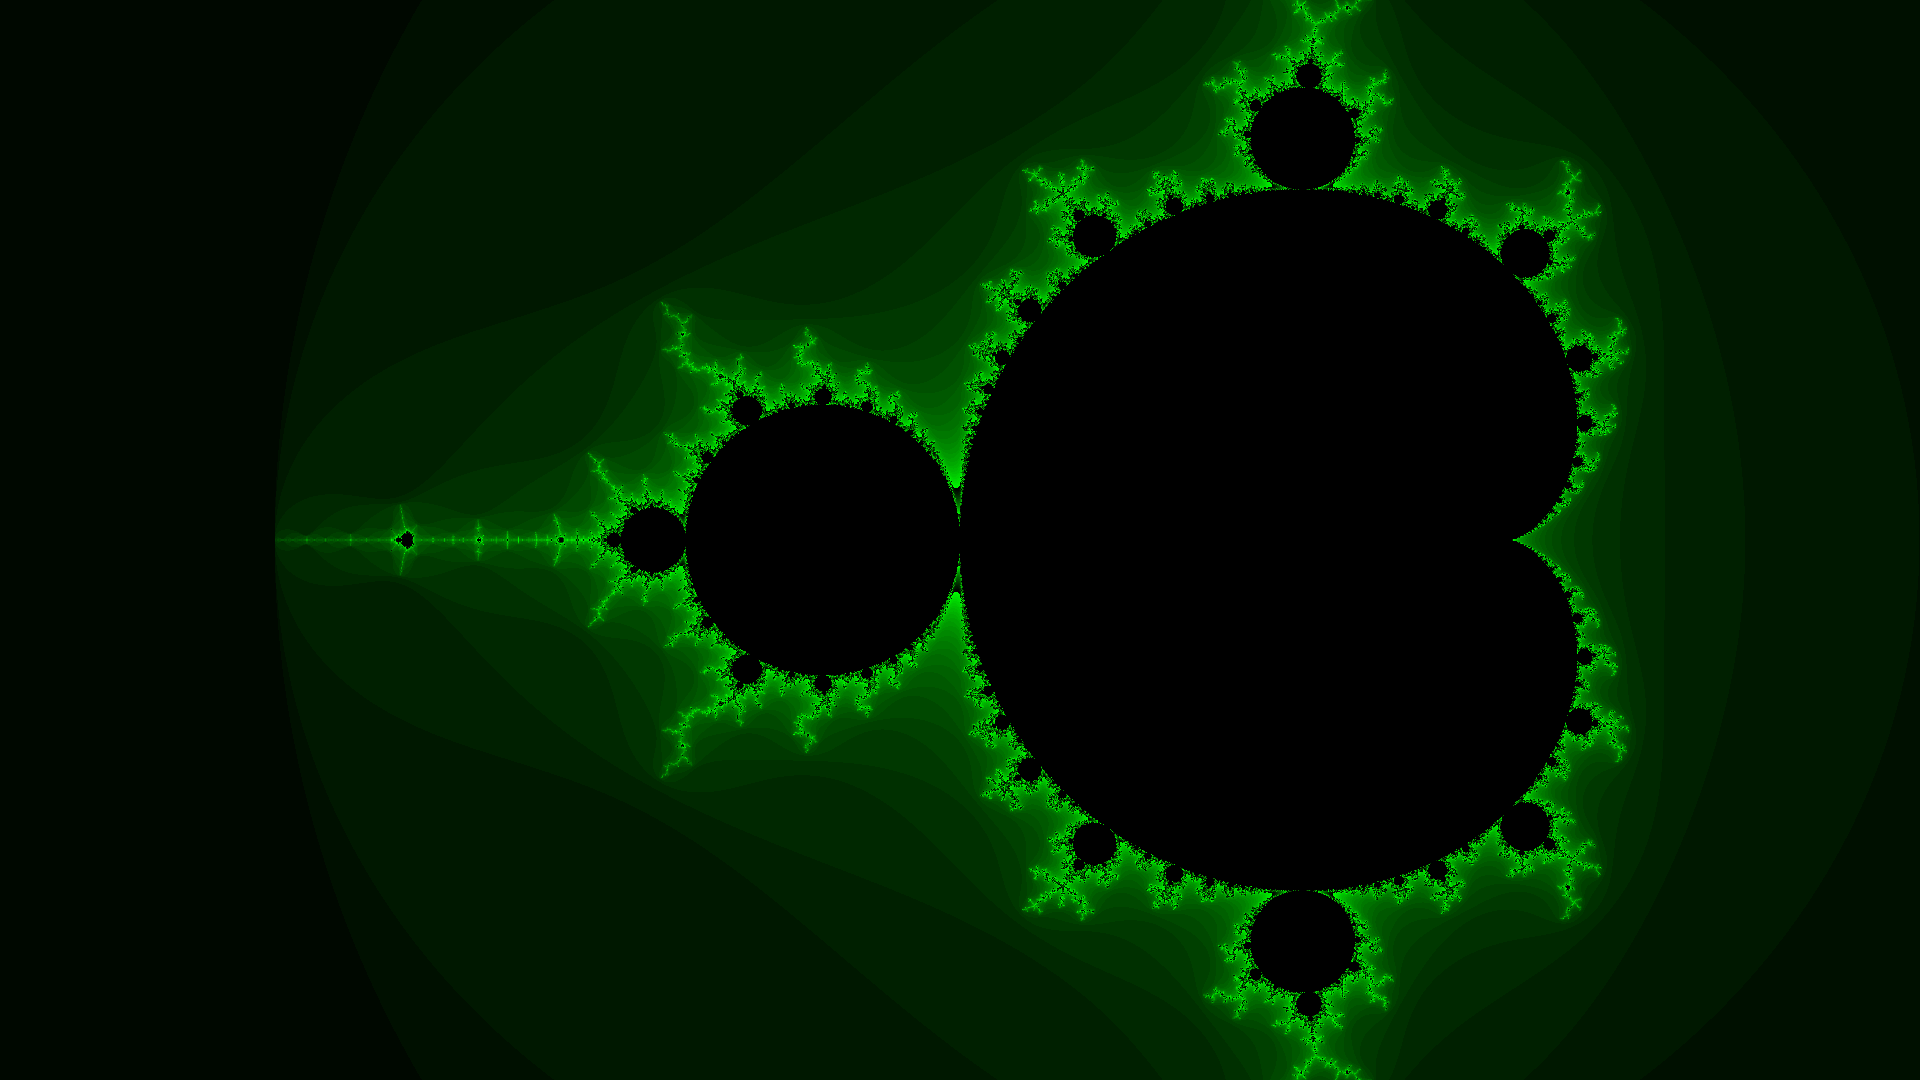
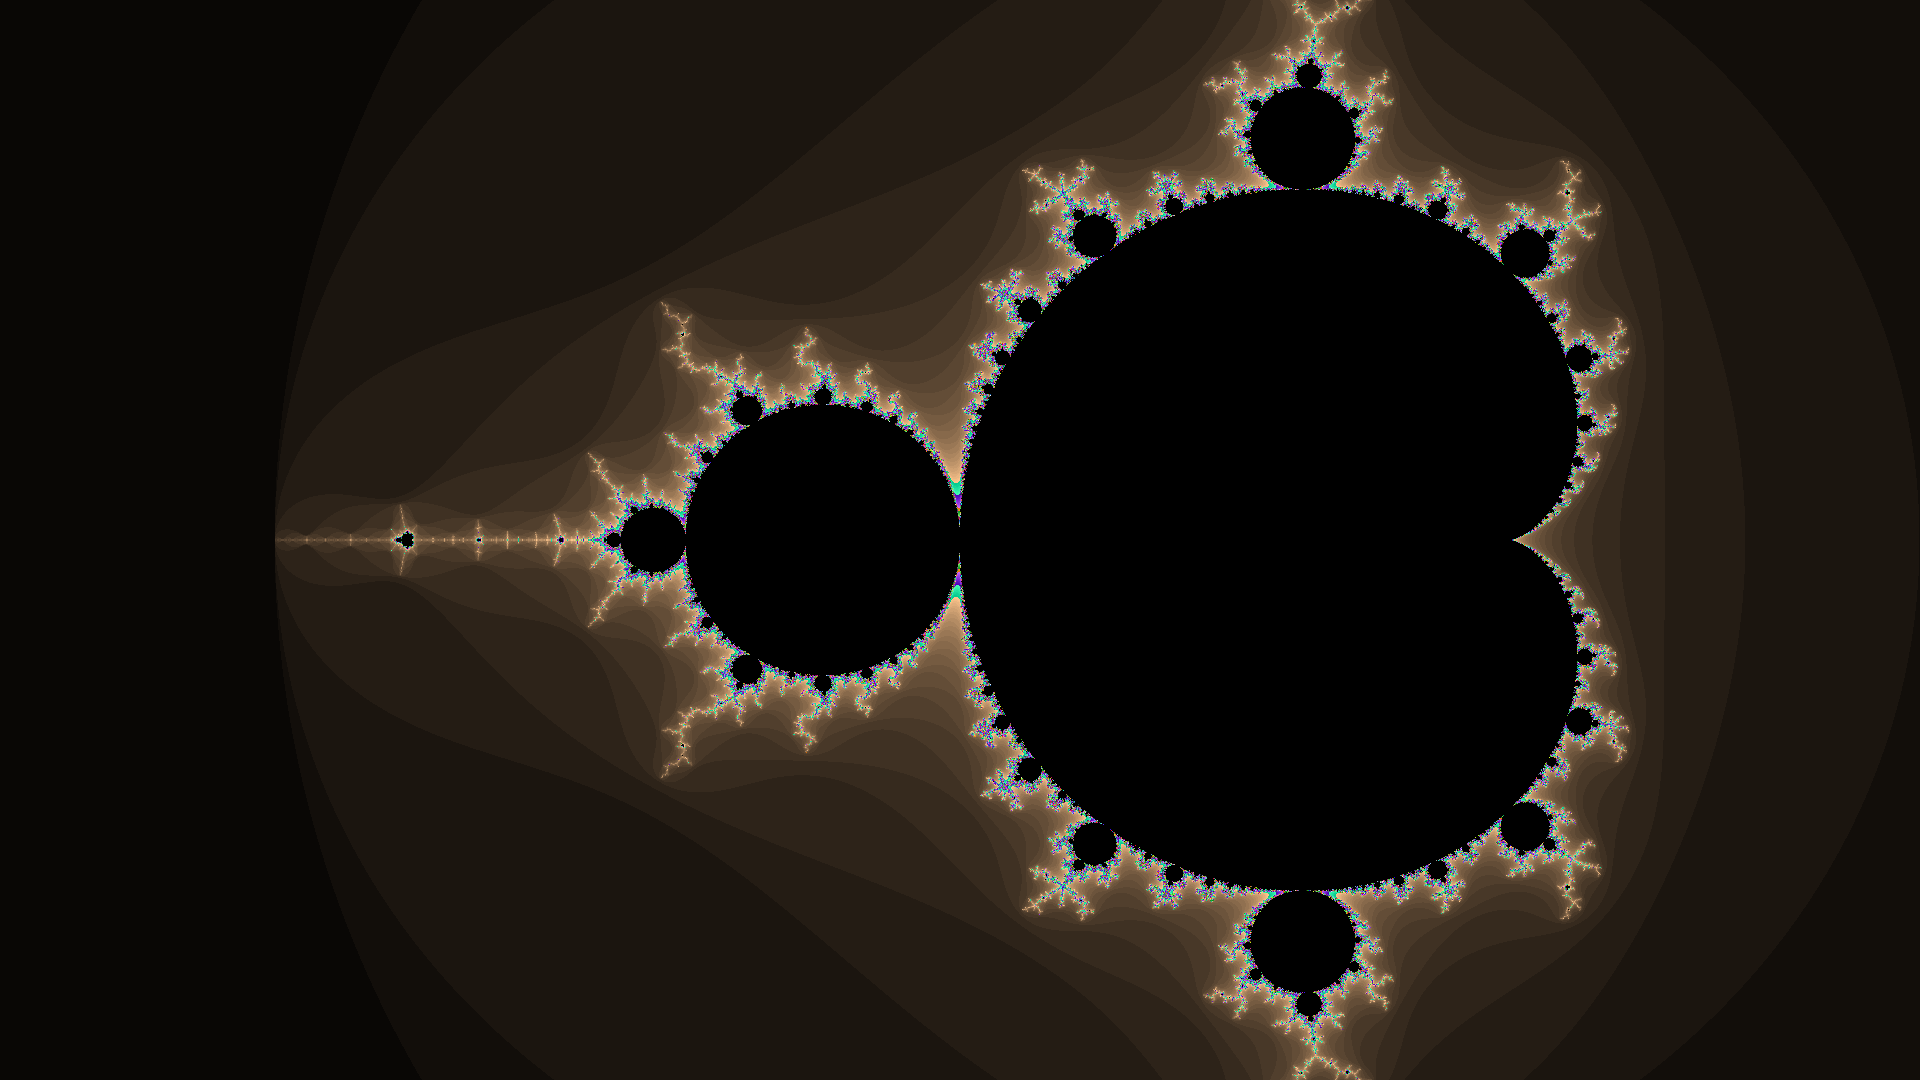
Update

diff --git a/main.java b/main.java
@@ -38,7 +38,15 @@ public class main {
                 }
 
                 // If it never escaped, color black. Otherwise use a simple green gradient.
-                int rgb = (iter == maxIter) ? 0x000000 : (iter * 8) << 8;
+                int rgb;
+                if (iter == maxIter) {
+                    rgb = 0x000000; // inside set = black
+                } else {
+                    int r = (iter * 9) % 256;
+                    int g = (iter * 7) % 256;
+                    int b = (iter * 5) % 256;
+                    rgb = (r << 16) | (g << 8) | b;
+                }
                 bImage.setRGB(x, y, rgb);
             }
         }
